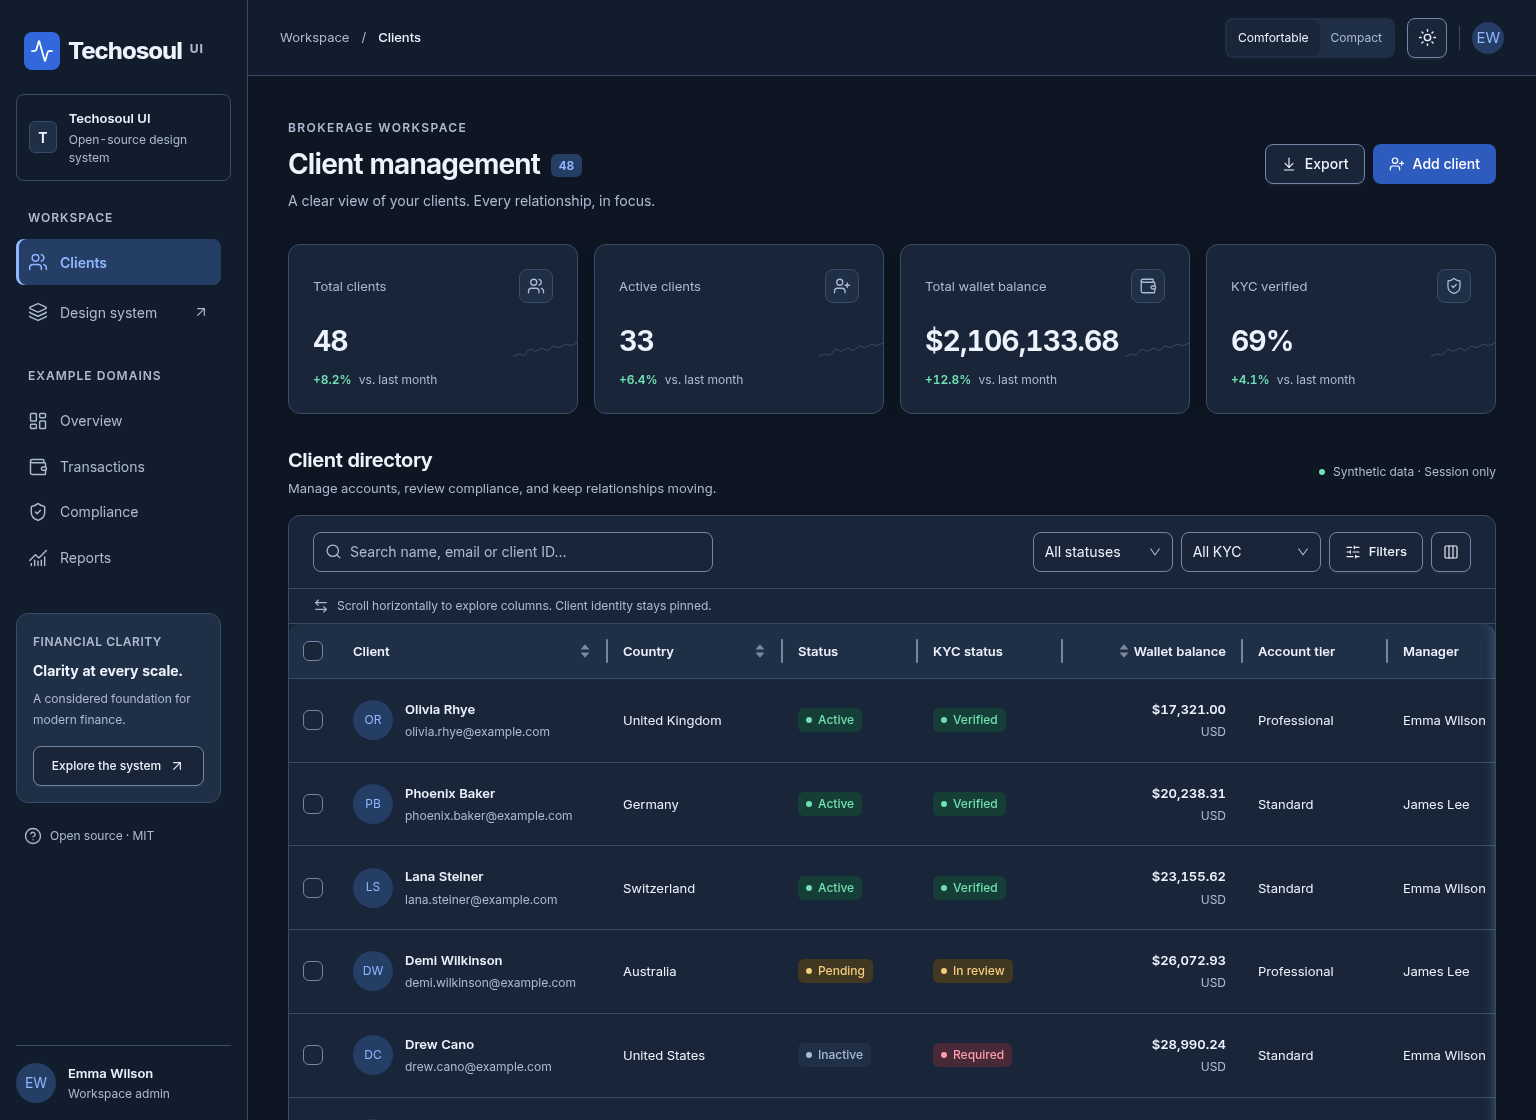
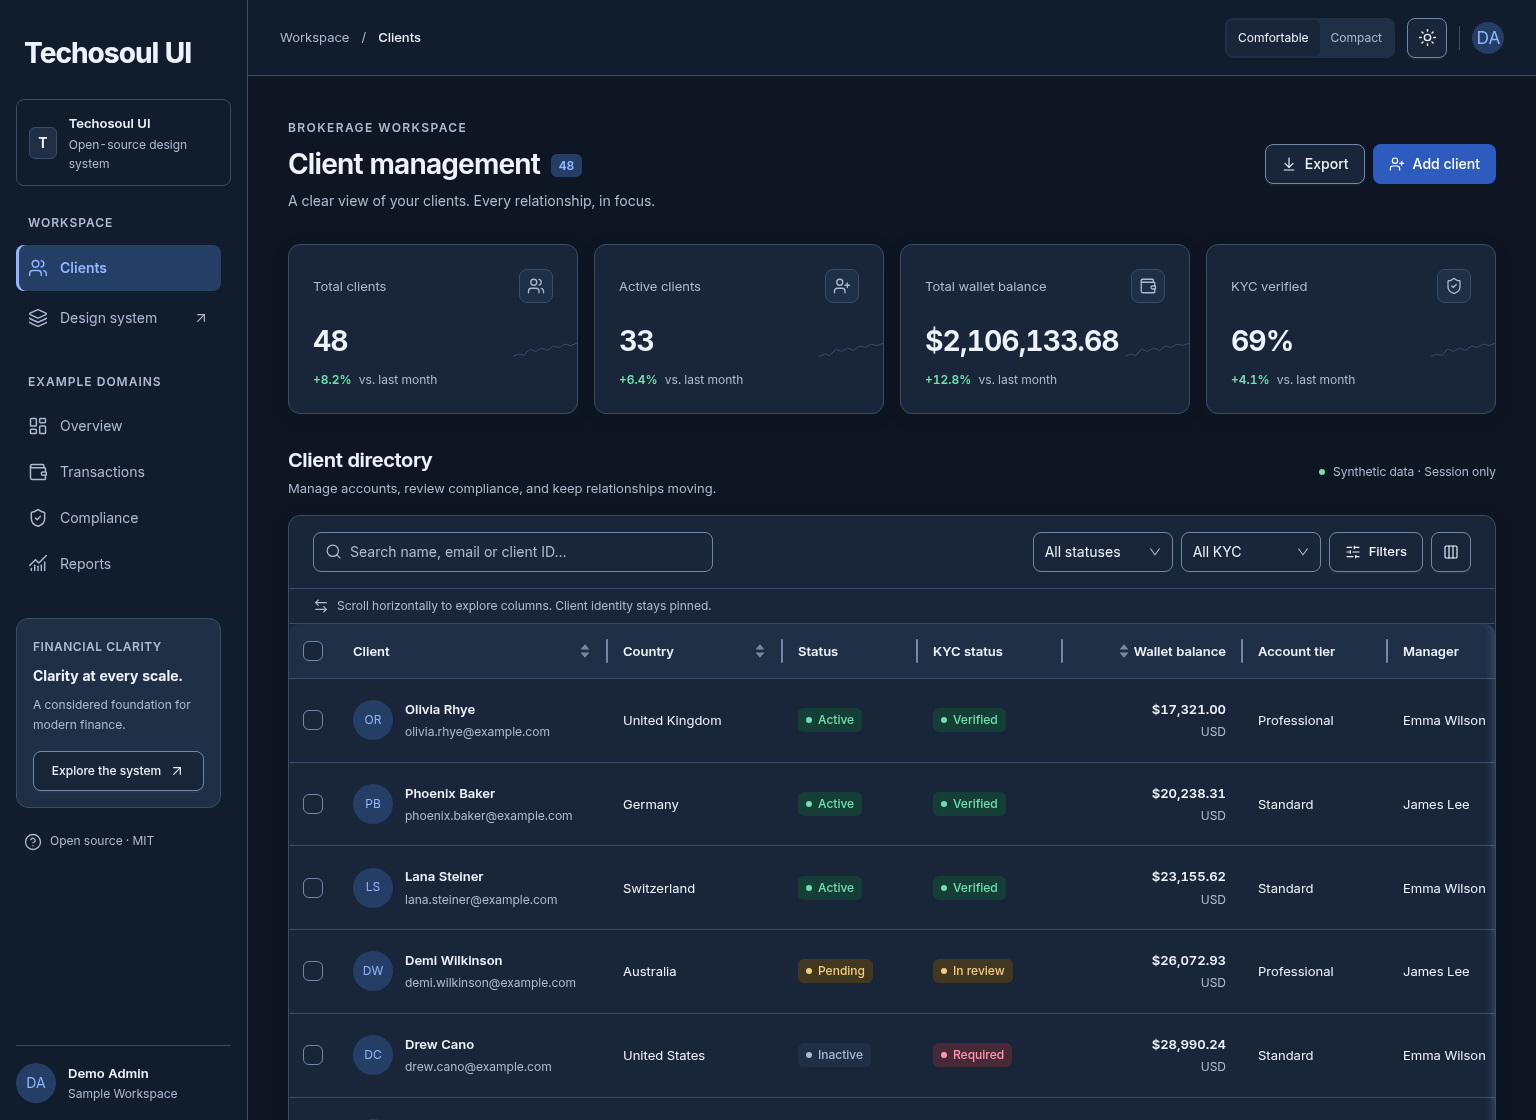
refactor(showcase): use typographic brand and explicit demo profile

diff --git a/tests/shell.spec.ts b/tests/shell.spec.ts
@@ -25,6 +25,9 @@ for (const mode of ["light", "dark"] as const) {
       const topbar = page.locator(".topbar");
       const scroller = page.locator(".main-scroll");
       const sidebar = page.locator(".sidebar");
+      await expect(
+        topbar.getByRole("img", { name: "Demo Admin · Sample Workspace" }),
+      ).toHaveText("DA");
       const before = await topbar.boundingBox();
       expect(
         await page.evaluate(() => ({
@@ -61,6 +64,17 @@ for (const mode of ["light", "dark"] as const) {
           name: "Workspace navigation",
         });
         await expect(drawer).toBeVisible();
+        await expect(
+          drawer.getByRole("link", { name: "Techosoul UI", exact: true }),
+        ).toBeVisible();
+        await expect(drawer.locator(".brand svg")).toHaveCount(0);
+        await expect(drawer.locator(".profile strong")).toHaveText(
+          "Demo Admin",
+        );
+        await expect(drawer.locator(".profile small")).toHaveText(
+          "Sample Workspace",
+        );
+        await expect(drawer.locator(".profile .ant-avatar")).toHaveText("DA");
         const drawerNav = drawer.getByRole("region", {
           name: "Sidebar navigation",
         });
@@ -99,6 +113,11 @@ for (const mode of ["light", "dark"] as const) {
         await expect(sidebar).toHaveCSS("overflow-y", "hidden");
         const brand = sidebar.locator(".brand");
         const profile = sidebar.locator(".profile");
+        await expect(brand).toHaveAccessibleName("Techosoul UI");
+        await expect(brand.locator("svg")).toHaveCount(0);
+        await expect(profile.locator("strong")).toHaveText("Demo Admin");
+        await expect(profile.locator("small")).toHaveText("Sample Workspace");
+        await expect(profile.locator(".ant-avatar")).toHaveText("DA");
         const brandBefore = await brand.boundingBox();
         const profileBefore = (await profile.boundingBox())!;
         expect(

diff --git a/apps/showcase/src/App.tsx b/apps/showcase/src/App.tsx
@@ -1,7 +1,6 @@
 import { lazy, Suspense, useState } from "react";
 import { Avatar, Button, Drawer, Segmented, Skeleton } from "antd";
 import {
-  Activity,
   Users,
   LayoutDashboard,
   Wallet,
@@ -41,10 +40,7 @@ export default function App() {
           href="#main-content"
           onClick={() => navigate("crm")}
         >
-          <span className="brand-mark">
-            <Activity size={24} />
-          </span>
-          Techosoul<span className="brand-ui">UI</span>
+          Techosoul UI
         </a>
         <div className="workspace">
           <span className="workspace-icon">T</span>
@@ -112,10 +108,10 @@ export default function App() {
         </div>
       </div>
       <div className="profile">
-        <Avatar>EW</Avatar>
+        <Avatar aria-hidden="true">DA</Avatar>
         <div>
-          <strong>Emma Wilson</strong>
-          <small>Workspace admin</small>
+          <strong>Demo Admin</strong>
+          <small>Sample Workspace</small>
         </div>
       </div>
     </div>
@@ -172,7 +168,9 @@ export default function App() {
               onClick={() => setMode(mode === "light" ? "dark" : "light")}
             />
             <span className="top-divider" />
-            <Avatar size={32}>EW</Avatar>
+            <span role="img" aria-label="Demo Admin · Sample Workspace">
+              <Avatar size={32}>DA</Avatar>
+            </span>
           </div>
         </header>
         <div

diff --git a/apps/showcase/src/styles.css b/apps/showcase/src/styles.css
@@ -143,7 +143,7 @@ button {
   align-items: center;
   gap: var(--techosoul-space-sm);
   color: var(--techosoul-text);
-  font-size: 24px;
+  font-size: var(--techosoul-typography-title);
   font-weight: 750;
   letter-spacing: -1px;
   text-decoration: none;
@@ -152,23 +152,6 @@ button {
 }
 .brand:hover {
   color: var(--techosoul-text);
-}
-.brand-mark {
-  background: var(--techosoul-action);
-  color: var(--techosoul-onAction);
-  display: grid;
-  place-items: center;
-  width: 36px;
-  flex-shrink: 0;
-  height: 38px;
-  border-radius: var(--techosoul-radius-control);
-}
-.brand-ui {
-  font-size: var(--techosoul-typography-caption);
-  color: var(--techosoul-muted);
-  letter-spacing: 0.8px;
-  align-self: flex-start;
-  margin-top: var(--techosoul-space-sm);
 }
 .workspace {
   display: flex;

diff --git a/docs/brand-preview.md b/docs/brand-preview.md
@@ -51,7 +51,10 @@ copy. Their final public presentation is included for owner editorial sign-off.
 No clients, headcount, partnerships or legal company status have been added.
 
 The registered corporate domain is described as a future website without a live
-marketing link. No logo is created. The rationale separates historical project
+marketing link. The application shell uses a typographic “Techosoul UI” wordmark pending an
+official logo. Desktop navigation and the mobile drawer identify the illustrative
+profile as “Demo Admin / Sample Workspace”, with DA initials also in the header.
+The founder attribution is separate from the fictional CRM identity. The rationale separates historical project
 evidence from interpretation and makes no external study or competitor-comparison
 claims. Remaining technical limitations stay in the existing documentation.
 
